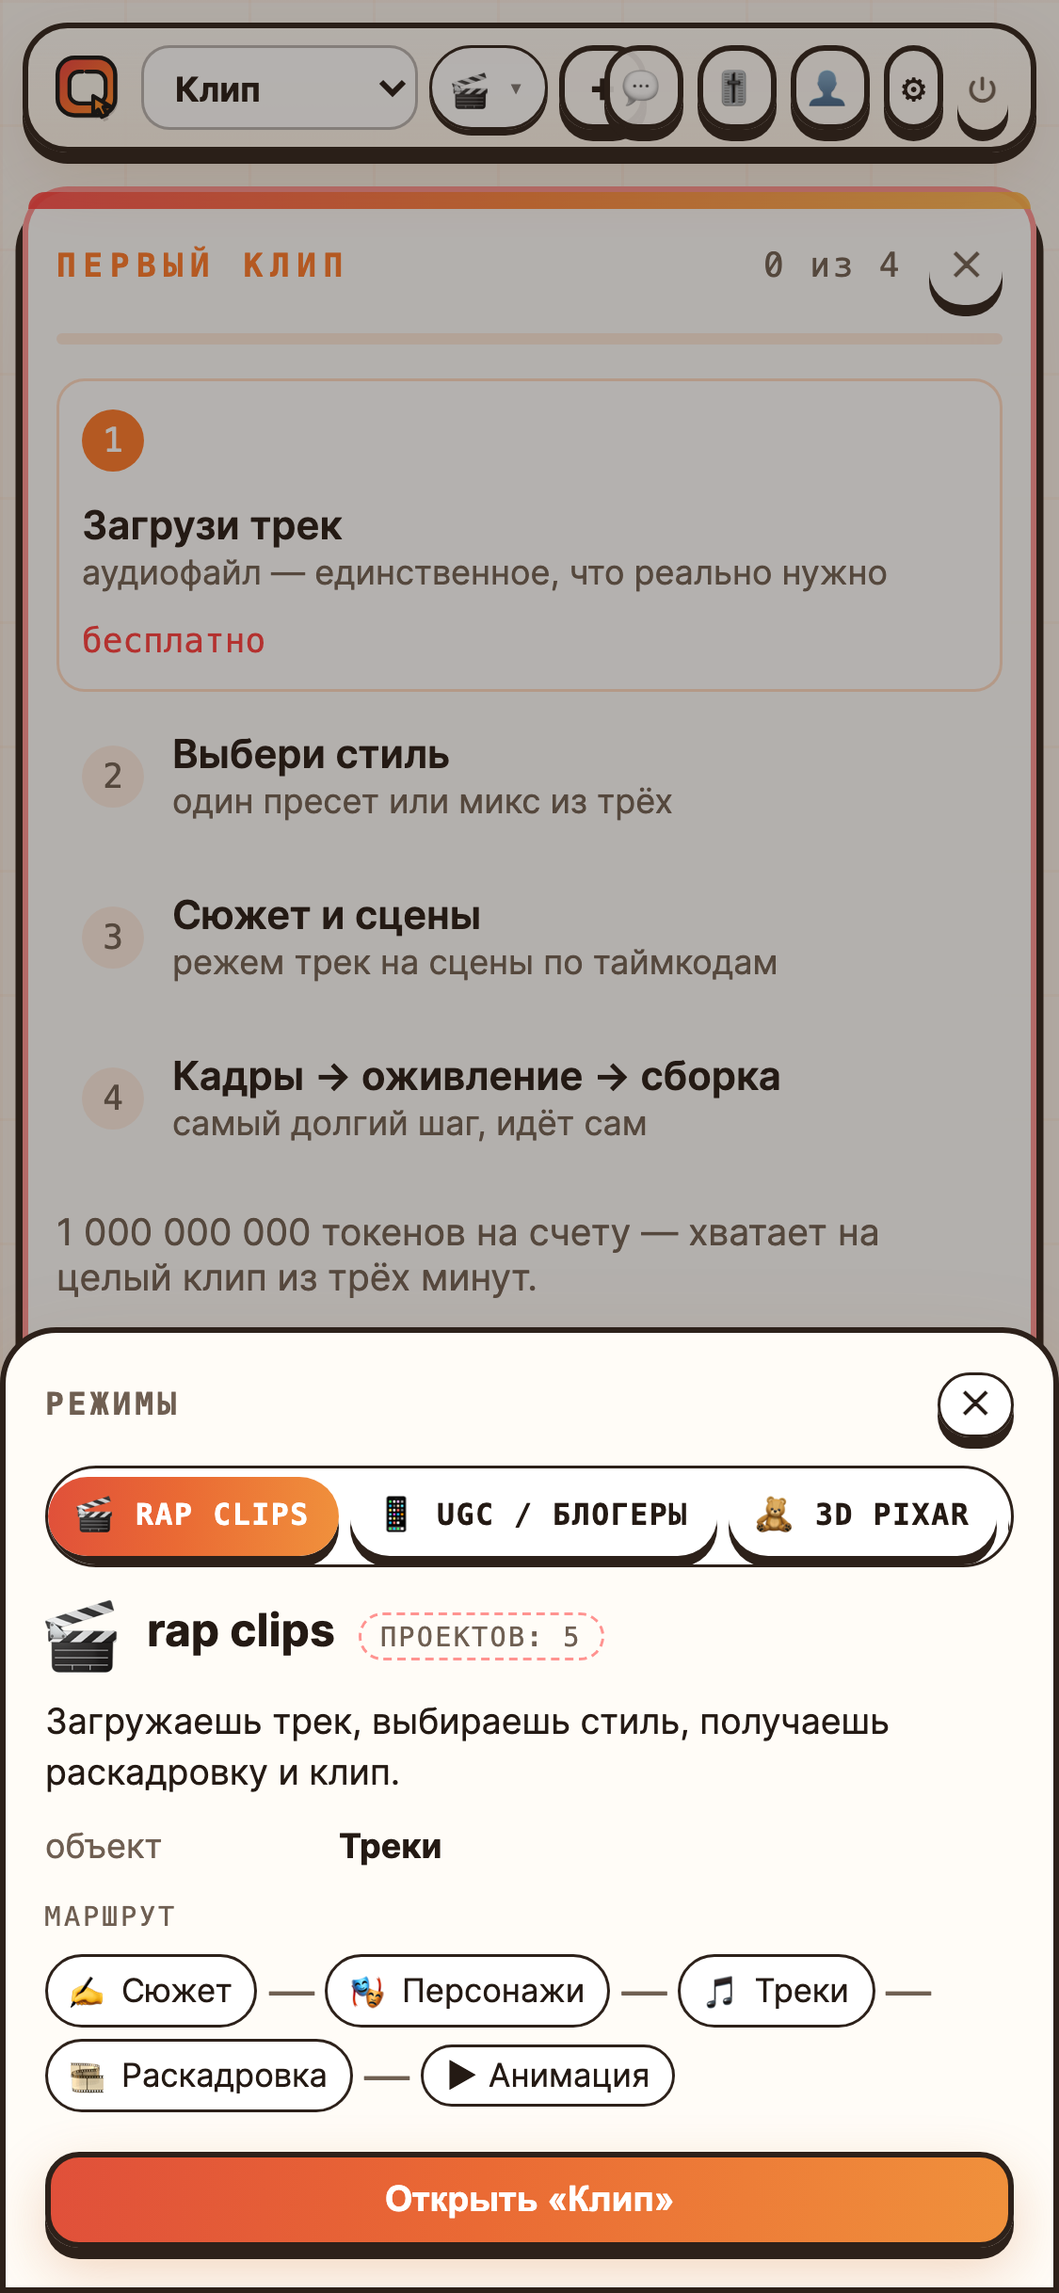
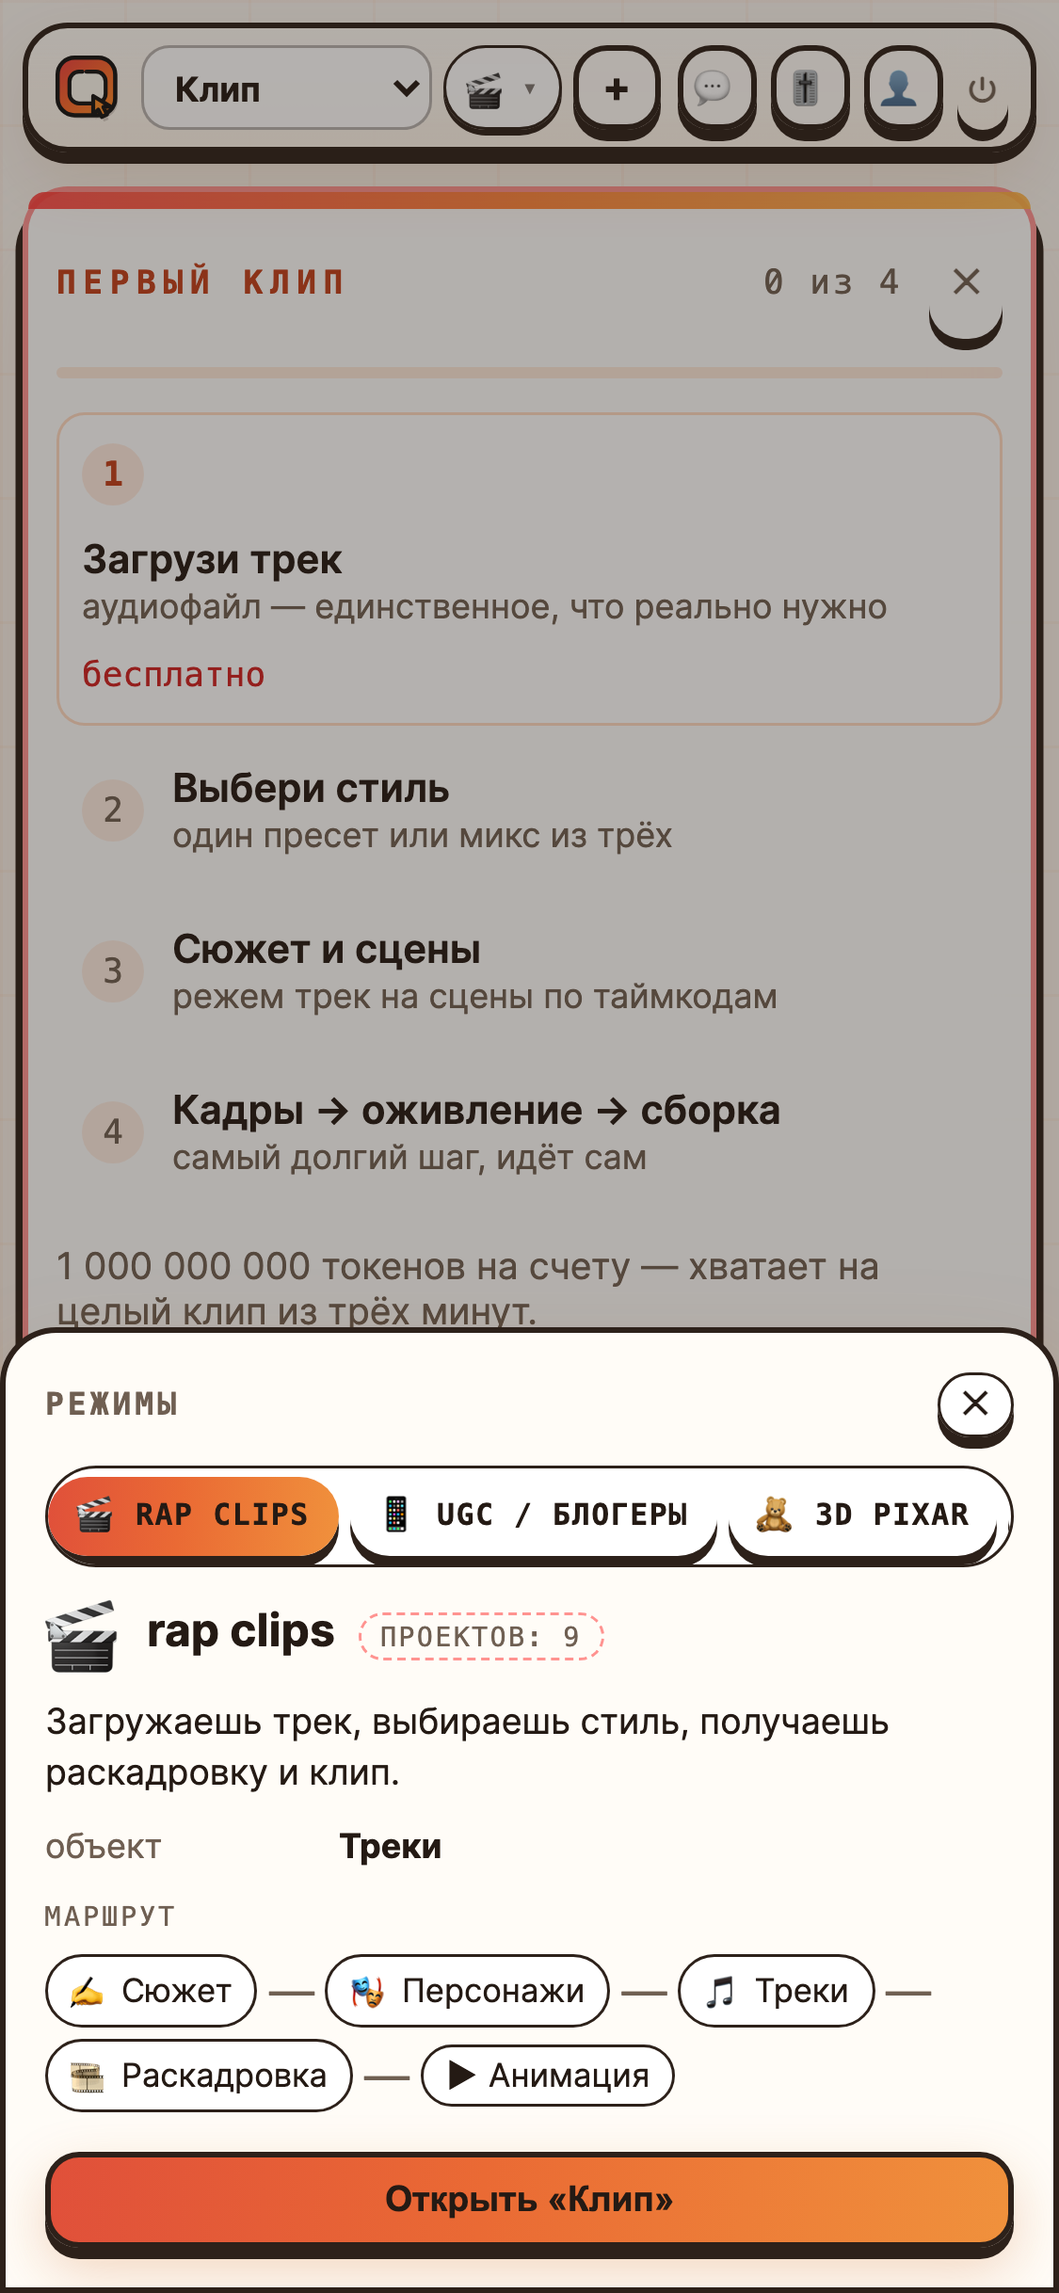
Шапка держит одну строку на всех ширинах: правило вместо подгонки
Продолжение предыдущего коммита — он чинил конкретные ширины, а ломалось
снова при каждом добавлении в строку. За сессию в шапку приехали «Музыка»,
седьмой режим и «Админка»; каждый раз что-то из группы проекта уезжало под
соседей и переставало нажиматься. Теперь зафиксирован порядок уступок.

Первыми уходят справочные элементы — бейдж тарифа и переключатель языка,
причём БЕЗ медиазапроса. Содержимое шапки упирается в max-width около 1400px
и шире не становится, сколько бы ни было монитора: строка на 1680 ровно та
же, что на 1400. Прежнее «вернём справку на широком экране» и было причиной
поломки на 1680. Тариф целиком написан в кабинете, язык остаётся на
лендинге, на входе и в чате, баланс токенов (.points-badge) — отдельный
элемент и в строке остаётся.

Дальше уступает лента режимов: прокручивается внутри своей коробки, потому
что режимы добавляют и она будет расти. Затем текстовые кнопки правой группы
становятся значками. На телефоне уходит «Админка»: она видна только
администратору, продублирована ссылкой в кабинете (.acc-admin-row → /admin),
а администрируют не с телефона.

Два ограничителя на .tb-user, оба найдены замерами:
flex-wrap:nowrap — иначе при сжатии «выйти» уезжала на второй этаж и шапка
становилась двухэтажной; min-width:min-content — иначе группа сжимается ниже
собственного содержимого, и её крайняя кнопка вылезает ВЛЕВО поверх
«+ проект». Второе не видно ни в scrollWidth, ни глазом на скриншоте —
[…]

diff --git a/frontend/style.css b/frontend/style.css
@@ -2617,10 +2617,16 @@ details.s-engine-override .eng-chip { font-size: 10.5px; padding: 5px 9px; }
    если её не хватило — сжимаются рабочие элементы.
    Тариф целиком написан в кабинете, язык остаётся на лендинге, на входе и в
    чате, так что ни одна из этих двух вещей не пропадает бесследно. */
-@media (max-width: 1500px) {
-  .topbar .lang-switch,
-  .topbar #plan-badge { display: none; }
-}
+/* Без медиазапроса намеренно. Содержимое шапки упирается в max-width около
+   1400px и шире НЕ становится, сколько бы ни было монитора: на 1680 строка
+   ровно та же, что на 1400. Значит «вернём справку на широком экране» — это
+   не про ширину экрана, а про то, что на 1680 «+ проект» уезжал под ленту.
+   Семь режимов и пять кнопок в 1400px помещаются только без этих двоих.
+   Ничего не теряется: тариф целиком написан в кабинете, язык остаётся на
+   лендинге, на входе и в чате, а баланс токенов — это отдельный
+   .points-badge, он остаётся в строке. */
+.topbar .lang-switch,
+.topbar #plan-badge { display: none; }
 
 /* Если справки уже не хватило — текстовые кнопки правой группы становятся
    значками. Это по-прежнему НЕ отнимает действий: прячется текст (font-size),
@@ -2654,19 +2660,37 @@ details.s-engine-override .eng-chip { font-size: 10.5px; padding: 5px 9px; }
      и вытесняла группу проекта, а вытесненное ложилось поверх соседей и
      переставало нажиматься. Пусть теперь уступает и она: незнакомая кнопка
      ужмётся, но никого не задавит. */
-  .topbar .tb-user { min-width: 0; flex-shrink: 1; }
+  /* Два ограничителя, оба выстраданные. nowrap: у .tb-user стоит
+     flex-wrap:wrap, и стоило дать ей сжиматься, как «выйти» уехала на вторую
+     строку — шапка стала двухэтажной ровно там, где мы её и собирали в одну.
+     min-content: сжатая ниже собственного содержимого группа не обрезается —
+     её крайняя кнопка вылезает ВЛЕВО, поверх «+ проект», и тот перестаёт
+     нажиматься; scrollWidth такого перелива не показывает, видно только
+     hit-тестом. Итог: уступать можно до содержимого, дальше — нельзя. */
+  .topbar .tb-user {
+    min-width: min-content;
+    flex-shrink: 1;
+    flex-wrap: nowrap;
+  }
 }
 
-/* ────────── 375px: строка обязана вместить тумблер ──────────
+/* ────────── узкий телефон: строка обязана вместить тумблер ──────────
    На телефоне ленты нет вовсе (её заменяет капсула со шторкой), но группа
    проекта всё равно просит больше, чем ей дают. Освобождаем место, не отнимая
    ни одного действия: обложка проекта — единственное украшение в строке (имя
    читается в списке рядом), а текстовые кнопки правой группы ужимаются до
    значков. Прячем именно ТЕКСТ (font-size), а не кнопку: обработчики,
    доступное имя для скринридера и порядок обхода остаются на месте. */
-@media (max-width: 420px) {
+@media (max-width: 480px) {
+  /* «Админка» на телефоне уходит совсем. Строка здесь переполнена
+     по-настоящему: .tb-user сжимается, и её крайняя кнопка вылезает ВЛЕВО,
+     поверх «+ проект» — тот перестаёт нажиматься. Значит, что-то должно уйти,
+     и уходит именно она: кнопка видна только администратору, продублирована
+     ссылкой в кабинете (.acc-admin-row → /admin), а администрируют сервис не
+     с телефона. У «+ проект» и капсулы режимов замены нет. */
+  .topbar #admin-btn { display: none; }
   .topbar .project-cover { display: none; }
-  .topbar .project-select { min-width: 72px; }
+  .topbar .project-select { min-width: 64px; }
   /* Последние пиксели снимаем с отступов значков и промежутков, а не с
      списка проектов: это единственная надпись в строке, которую читают. */
   .topbar .tb-project { gap: 4px; }
@@ -2675,6 +2699,37 @@ details.s-engine-override .eng-chip { font-size: 10.5px; padding: 5px 9px; }
   .topbar #admin-btn,
   .topbar #account-btn,
   .topbar #logout-btn { padding: 0 6px; }
+}
+
+/* Совсем узкие корпуса (360 и уже — Android-эконом, iPhone SE). Отдельный
+   ярус, а не подгонка предыдущего: на 375 список проектов ещё читается в
+   64px, и отбирать у него ширину раньше времени незачем. */
+@media (max-width: 380px) {
+  .topbar .project-select { min-width: 52px; }
+  .topbar .mode-switch { padding: 0 7px; }
+  .topbar #music-btn,
+  .topbar #chat-btn,
+  .topbar #admin-btn,
+  .topbar #account-btn,
+  .topbar #logout-btn { padding: 0 4px; }
+}
+
+/* 320px (iPhone SE первого поколения) не хватало восьми пикселей — из-за них
+   «+ проект» уезжал под «Чат». Снимаем их с отступов, а не с чего-то ещё. */
+@media (max-width: 340px) {
+  .topbar .project-select { min-width: 46px; }
+  .topbar .tb-new { padding: 0 5px; }
+  /* 320px (iPhone SE первого поколения). Здесь .tb-user уже сжата сильнее
+     собственного содержимого, и её крайняя кнопка вылезает ВЛЕВО поверх
+     «+ проект» — scrollWidth такого перелива не показывает, видно только
+     hit-тестом. Последние пиксели снимаем с промежутков и отступов. */
+  .topbar { gap: 4px; }
+  .topbar .tb-user { gap: 3px; }
+  .topbar .mode-switch { padding: 0 6px; }
+  .topbar #music-btn,
+  .topbar #chat-btn,
+  .topbar #account-btn,
+  .topbar #logout-btn { padding: 0 3px; }
 }
 
 /* ────────── правая колонка карточки кадра: единый ритм ──────────

diff --git a/frontend/index.html b/frontend/index.html
@@ -47,13 +47,13 @@
 {"@type":"Offer","name":"PRO MAX","price":"100","priceCurrency":"USD","description":"3400 credits a month — Seedance 2.5 and Kling 3.0 Pro"},
 {"@type":"Offer","name":"ULTRA","price":"299","priceCurrency":"USD","description":"From 10500 to 104000 credits a month — every engine"}]}
 </script>
-<link rel="stylesheet" href="/style.css?v=62" />
-<link rel="stylesheet" href="/landing.css?v=62" />
-<link rel="stylesheet" href="/tg.css?v=62" />
+<link rel="stylesheet" href="/style.css?v=63" />
+<link rel="stylesheet" href="/landing.css?v=63" />
+<link rel="stylesheet" href="/tg.css?v=63" />
 <!-- Раздел «Музыка». ПОСЛЕ style.css и landing.css: он берёт их токены и не
      объявляет своих — ровно затем, чтобы не повторить историю nav.css, где
      переопределённый в :root огонь перекрасил весь интерфейс в красный. -->
-<link rel="stylesheet" href="/music-studio.css?v=62" />
+<link rel="stylesheet" href="/music-studio.css?v=63" />
 <script>
 /* Мини-апп Telegram — та же страница, но с другой точкой входа.
    Telegram кладёт параметры запуска во ФРАГМЕНТ адреса (#tgWebAppData=…),
@@ -71,7 +71,7 @@
   // страница осталась бы с правилами мини-аппа (лендинг и вход скрыты) и
   // человек увидел бы пустой экран вместо честного сайта.
   document.write('<scr' + 'ipt src="https://telegram.org/js/telegram-web-app.js"></scr' + 'ipt>');
-  document.write('<scr' + 'ipt src="/tg.js?v=62"></scr' + 'ipt>');
+  document.write('<scr' + 'ipt src="/tg.js?v=63"></scr' + 'ipt>');
 })();
 </script>
 </head>
@@ -1163,15 +1163,15 @@
      (app.js + mode-menu.js), и верстак (nav.js, за флагом ?nav=1). Пока
      реестр жил внутри nav.js, тумблер режимов существовал только под флагом,
      то есть владелец в обычной студии его не видел вообще. -->
-<script src="/modes.js?v=62"></script>
-<script src="/i18n.js?v=62"></script>
-<script src="/app.js?v=62"></script>
+<script src="/modes.js?v=63"></script>
+<script src="/i18n.js?v=63"></script>
+<script src="/app.js?v=63"></script>
 <!-- Раздел «Музыка». ПОСЛЕ app.js: опирается на его глобали (api, hideScreens,
      showApp, fail) и на словарь i18n.js. -->
-<script src="/music-studio.js?v=62"></script>
+<script src="/music-studio.js?v=63"></script>
 <!-- Тумблер режимов и меню режима. ПОСЛЕ app.js: он опирается на живой
      #project-select и на window.openNewProjectModal / applyModeShortcut. -->
-<script src="/mode-menu.js?v=62"></script>
+<script src="/mode-menu.js?v=63"></script>
 <script>
 /* ВЕРСТАК (nav.css + nav.js) — ЗА ФЛАГОМ, а не по умолчанию.
    Навигация подменяет топбар и переключает панели поверх живого app.js;
@@ -1195,10 +1195,10 @@
   if (!on) return;
   var css = document.createElement("link");
   css.rel = "stylesheet";
-  css.href = "/nav.css?v=62";
+  css.href = "/nav.css?v=63";
   document.head.appendChild(css);
   var js = document.createElement("script");
-  js.src = "/nav.js?v=62";
+  js.src = "/nav.js?v=63";
   document.body.appendChild(js);
 })();
 </script>
